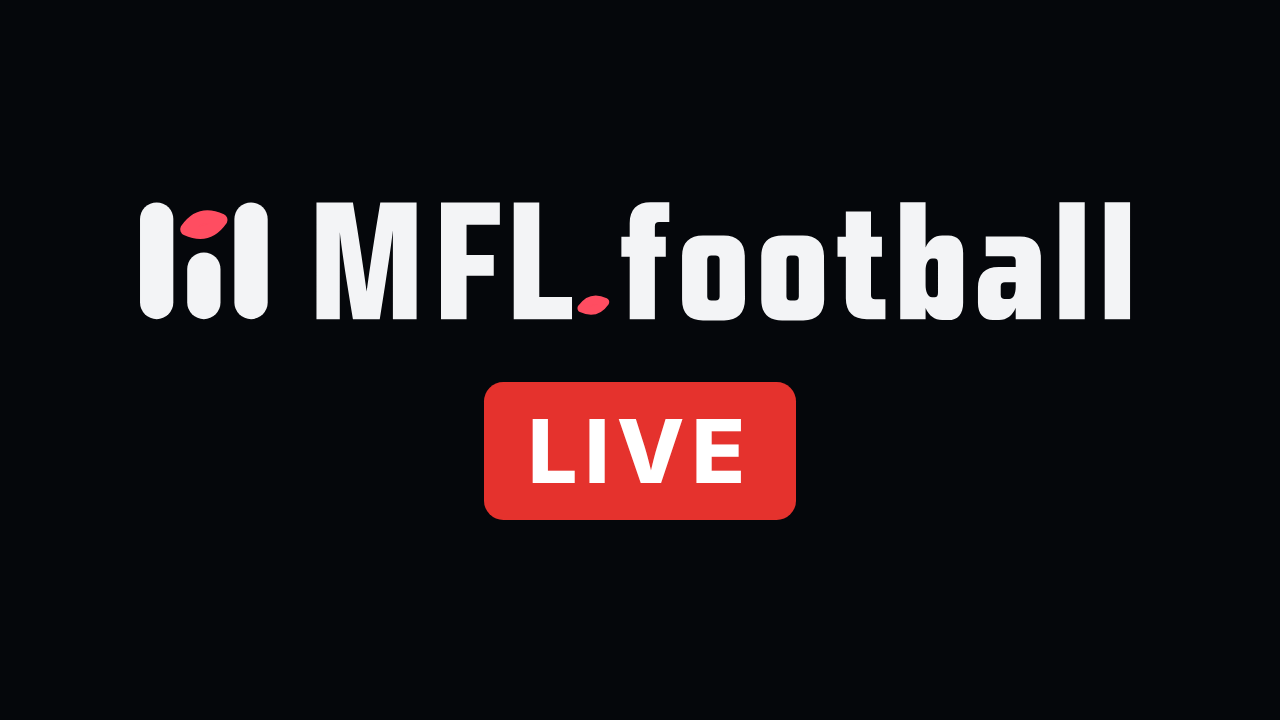
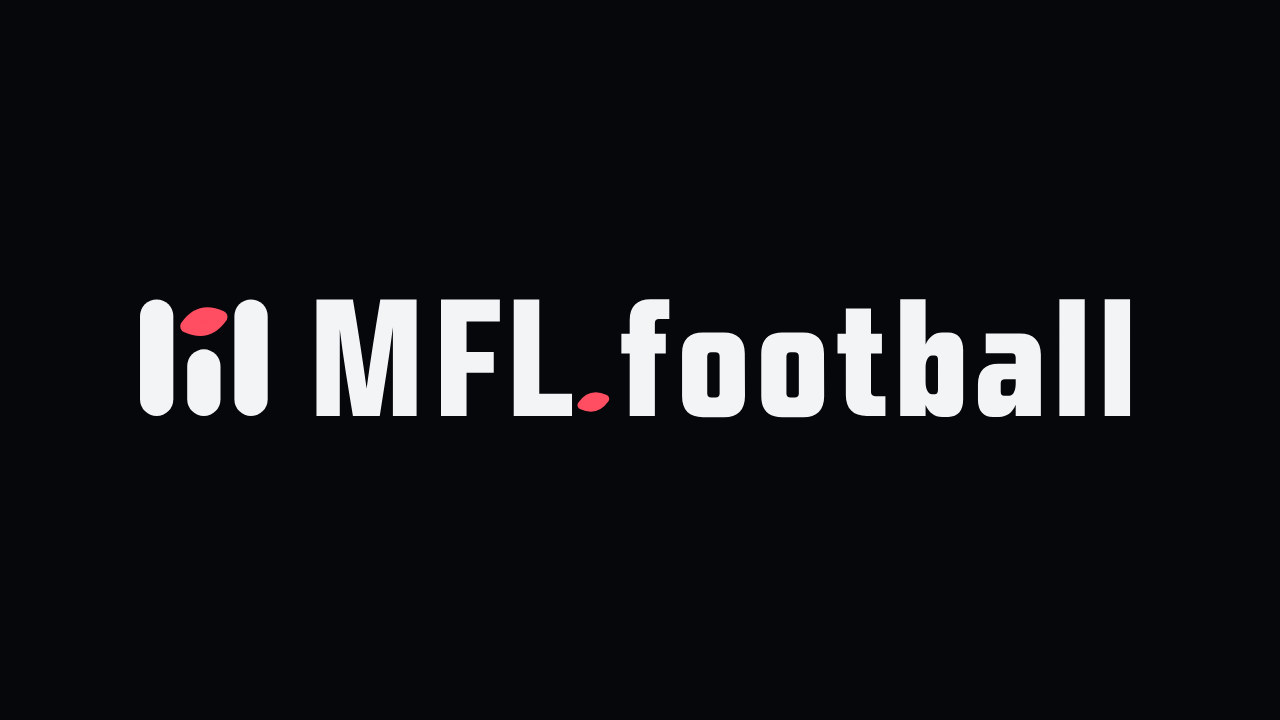
Rename MFL Live to MFL Football on the site and the Google TV app
Another app already uses the MFL Live name. User-facing text only:
page titles, the app bar, menu, landing, privacy policy, guides, the
PWA manifest, sign-in errors, staged changelog lines, and the TV app's
name, overlay prompt and banners (re-rendered from the MFL.football
wordmark). Routes, the /guides/mfl-live slug, package ids, code
identifiers and published What's New articles are unchanged.

Claude-Session: https://claude.ai/code/session_01AuZt7MmFACeHfeunW9WgBt

Changed region(s): [[0.25, 0.275, 0.9062, 0.7333], [0.0938, 0.275, 0.2188, 0.5806]]

diff --git a/src/styles/league-themes.generated.css b/src/styles/league-themes.generated.css
@@ -728,7 +728,7 @@ html.dark[data-league="bb1"] {
   --bb-green: #0b3d2e;
 }
 
-/* MFL Live (mfl-live) — The AFL design language with the navy family replaced by neutral near-black, keeping the red accent and the gold family. Applied by MflAppLayout to the shared-host app, which is not a registry league. */
+/* MFL Football (mfl-live) — The AFL design language with the navy family replaced by neutral near-black, keeping the red accent and the gold family. Applied by MflAppLayout to the shared-host app, which is not a registry league. */
 html[data-league="mfl"] {
   --card-bg: var(--color-white);
   --card-border: var(--content-border);

diff --git a/src/pages/api/auth/login.ts b/src/pages/api/auth/login.ts
@@ -166,7 +166,7 @@ export const POST: APIRoute = async ({ request, cookies }) => {
     const listedLeague = mflLiveSignInLeagueIds().includes(sessionLeagueId);
     const openLeague = openSignIn && !listedLeague && /^\d+$/.test(sessionLeagueId);
     if (!listedLeague && !openLeague) {
-      return json({ success: false, message: 'MFL Live is invite-only for now.' }, 403);
+      return json({ success: false, message: 'MFL Football is invite-only for now.' }, 403);
     }
 
     // Create JWT session

diff --git a/src/components/shared/live-broadcast/BroadcastOverlay.tsx b/src/components/shared/live-broadcast/BroadcastOverlay.tsx
@@ -212,7 +212,7 @@ export default function BroadcastOverlay({ pageData, signedIn, mode: initialMode
         <p className="bov__note">
           {signedIn
             ? 'Can’t reach your leagues right now. Trying again in a minute.'
-            : 'Open MFL Live on this TV to sign it in, then start the overlay again.'}
+            : 'Open MFL Football on this TV to sign it in, then start the overlay again.'}
         </p>
       </div>
     );

diff --git a/.storybook/preview.ts b/.storybook/preview.ts
@@ -235,7 +235,7 @@ const preview = definePreview({
           // MFL Live's surface. Not a registry league — it is a theme key for
           // the shared host, and the one surface whose card ground differs
           // from both TheLeague's and the AFL's.
-          { value: 'mfl', title: 'MFL Live' },
+          { value: 'mfl', title: 'MFL Football' },
         ],
         dynamicTitle: true,
       },

diff --git a/src/utils/mfl-login.ts b/src/utils/mfl-login.ts
@@ -493,7 +493,7 @@ export async function authenticateWithMFL(
         franchiseId: '',
         leagueId: '',
         role: 'owner',
-        error: 'MFL Live is invite-only for now, and none of your MyFantasyLeague leagues are part of it yet.',
+        error: 'MFL Football is invite-only for now, and none of your MyFantasyLeague leagues are part of it yet.',
       };
     }
 

diff --git a/src/utils/site-insights-model.ts b/src/utils/site-insights-model.ts
@@ -50,7 +50,7 @@ export function insightSections(): string[] {
 }
 
 export function sectionLabel(section: string): string {
-	if (section === 'live') return 'MFL Live';
+	if (section === 'live') return 'MFL Football';
 	if (section === 'site') return 'Sign-in & splash';
 	return ALL_LEAGUES.find((l) => l.slug === section)?.name ?? section;
 }
